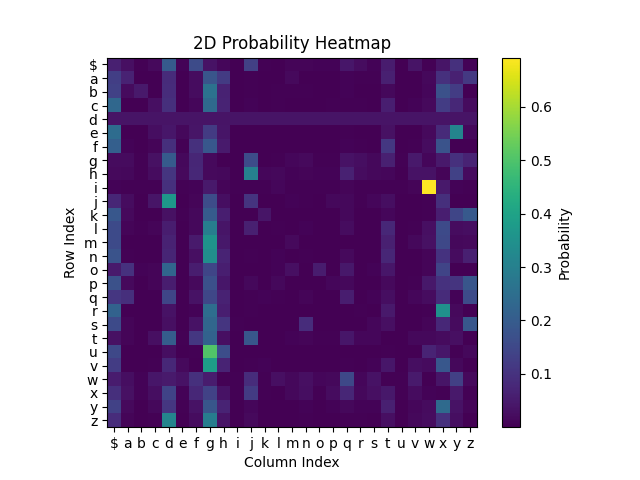
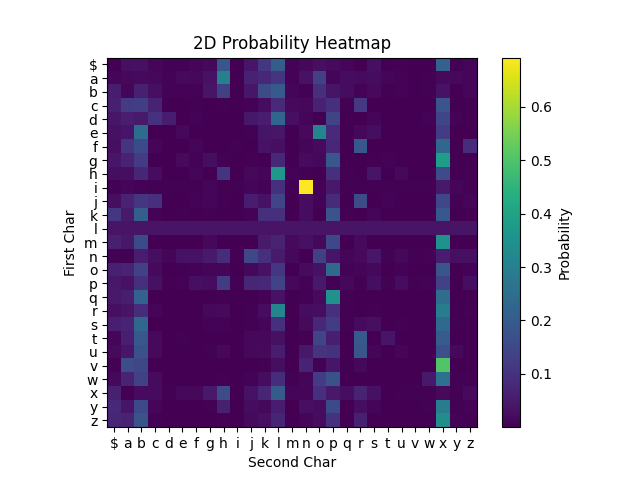
started simple network

diff --git a/models/network_model.py b/models/network_model.py
@@ -1,0 +1,111 @@
+from typing import List
+import torch
+import torch.nn as nn
+from abc import ABC, abstractmethod
+
+from .AbstractModel import AbstractModel
+from .Loader import Loader
+from .constants import SPECIAL_CHAR
+
+
+class Layer(ABC):
+    @abstractmethod
+    def __call__(self, X: torch.Tensor) -> torch.Tensor:
+        pass
+
+    def params(self) -> List[torch.Tensor]:
+        pass
+
+
+class LinearLayer(Layer):
+    def __init__(self, fan_in: int, fan_out: int, bias: bool = True):
+        self.W = torch.randn(fan_in, fan_out)
+        self.b = torch.randn(fan_out) if bias else None
+
+    def __call__(self, X: torch.Tensor):
+        O = X @ self.W
+        if self.b is not None:
+            O += self.b
+        return O
+
+    def params(self):
+        return [self.W] + ([self.b] if self.b is not None else [])
+
+
+class EmbeddingLayer(Layer):
+    def __init__(self, input_dim, embedding_dims):
+        self.embedding = torch.randn(input_dim, embedding_dims)
+
+    def __call__(self, X: torch.Tensor):
+        return self.embedding[X]
+
+    def params(self):
+        return [self.embedding]
+
+
+class LeReLU(Layer):
+    def __init__(self, alpha: int = 0.1):
+        self.alpha = alpha
+
+    def __call__(self, X: torch.Tensor):
+        return torch.where(X > 0, X, X * self.alpha)
+
+    def params(self):
+        return []
+
+
+class Network:
+    def __init__(self, input_dim: int, embedding_dims: int, hidden_lyrs: int):
+        self.layers: List[Layer] = [EmbeddingLayer(input_dim, embedding_dims)]
+        for _ in range(hidden_lyrs):
+            self.layers.append(LinearLayer(embedding_dims, embedding_dims, bias=True)),
+            self.layers.append(LeReLU())
+
+        self.layers.append(LinearLayer(embedding_dims, input_dim, bias=True))
+
+    def __call__(self, X: torch.Tensor):
+        for layer in self.layers:
+            X = layer(X)
+        return X
+
+    def params(self):
+        params = []
+        for layer in self.layers:
+            params += layer.params()
+
+
+class SimpleNetwork(Loader, AbstractModel):
+    def __init__(self, fill: int = 1, embedding_dims: int = 10, hidden_lyrs: int = 2):
+        self.embedding_dims = embedding_dims
+        self.hidden_lyrs = hidden_lyrs
+        self.fill = fill
+
+    def load_data(self, data_path: str):
+        data = self.load_from_file(data_path)
+        unique_chars = set("".join(data))
+        unique_chars.add(SPECIAL_CHAR)
+        self.unique_chars = sorted(unique_chars)
+        self.s_to_i = {s: i for i, s in enumerate(unique_chars)}
+        self.i_to_s = {i: s for i, s in enumerate(unique_chars)}
+        self.network = Network(len(self.unique_chars), self.embedding_dims, self.hidden_lyrs)
+
+        self.XX = []
+        self.YY = []
+        for word in data:
+            data = "".join([SPECIAL_CHAR] * self.fill)
+            for char in word + SPECIAL_CHAR:
+                self.XX.append(data[-self.fill :])
+                self.YY.append(char)
+                data += char
+
+        print(self.XX[:10])
+        print(self.YY[:10])
+
+    def train(self, itterations: int = 100, batch_size: int = -1, **kwargs):
+        return
+
+    def visualize(self, path: str):
+        return
+
+    def predict(self, data: str):
+        return SPECIAL_CHAR

diff --git a/models/bigram_model.py b/models/bigram_model.py
@@ -9,13 +9,14 @@ from .constants import SPECIAL_CHAR
 
 
 class BigramModel(Loader, AbstractModel):
-    def __init__(self, dataset_filepath: str, normalization: int = 1):
-        if not os.path.exists(dataset_filepath):
-            raise ValueError(f"Invalid file path {dataset_filepath} does not exist.")
-        self.path = dataset_filepath
+    def __init__(self, normalization: int = 1):
         self.normalization = normalization
-        file_content = self.load_data(self.path)
-        self.__setup_counts(file_content)
+
+    def load_data(self, data_path: str):
+        self.data = self.load_from_file(data_path)
+
+    def train(self, **kwargs):
+        self.__setup_counts(self.data)
 
     def __setup_counts(self, file_content: List[str]):
         unique_chars = set("".join(file_content))

diff --git a/models/AbstractModel.py b/models/AbstractModel.py
@@ -7,6 +7,17 @@ class AbstractModel(ABC):
         """Visualize the model in some way and save it to the directory specified"""
         pass
 
+    @abstractmethod
     def predict(self, content: str) -> str:
         """Predict the next character in the string"""
+        pass
+
+    @abstractmethod
+    def load_data(self, data: str):
+        """Pass the path to the data and load it into the model"""
+        pass
+
+    @abstractmethod
+    def train(self, **kwargs):
+        """Train the model on the previously passed data"""
         pass

diff --git a/main.py b/main.py
@@ -1,8 +1,10 @@
 import torch
-from models import BigramModel, SPECIAL_CHAR
+from models import BigramModel, SimpleNetwork, SPECIAL_CHAR
 
 
-model = BigramModel("./names.txt")
+model = SimpleNetwork(fill=3)
+model.load_data("./names.txt")
+model.train()
 model.visualize(".")
 for i in range(10):
     word = ""

diff --git a/models/Loader.py b/models/Loader.py
@@ -4,7 +4,7 @@ from typing import List
 
 class Loader:
     @staticmethod
-    def load_data(path: str) -> List[str]:
+    def load_from_file(path: str) -> List[str]:
         if not os.path.exists(path):
             raise ValueError(f"File path does not exists: {path}")
         file_content = []

diff --git a/models/__init__.py b/models/__init__.py
@@ -1,2 +1,3 @@
 from .bigram_model import BigramModel
+from .network_model import SimpleNetwork
 from .constants import SPECIAL_CHAR
